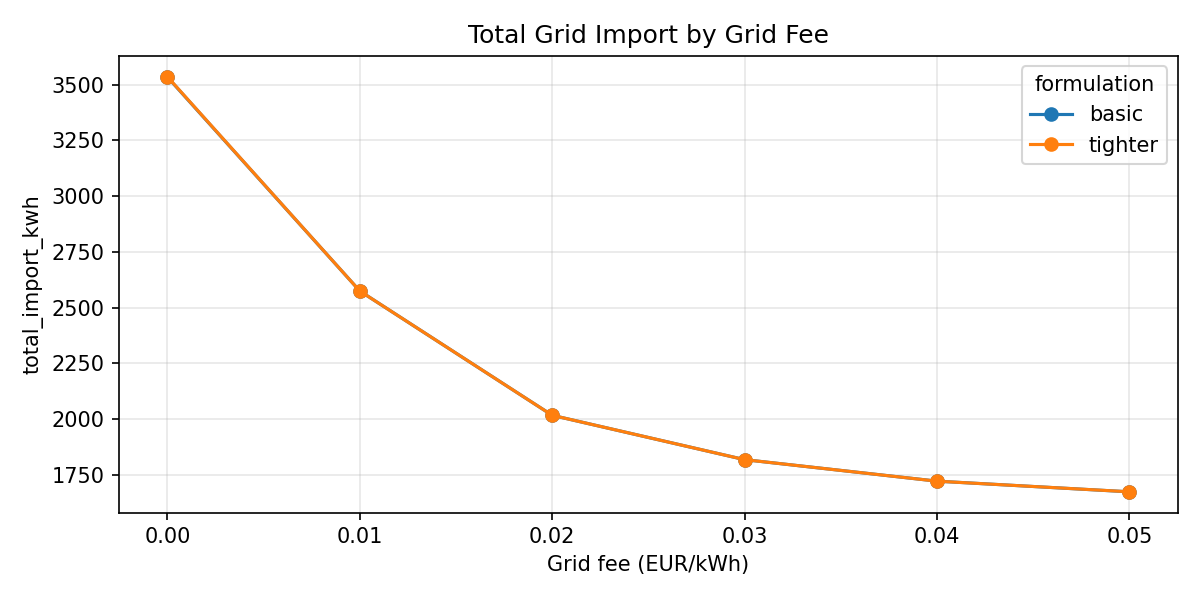
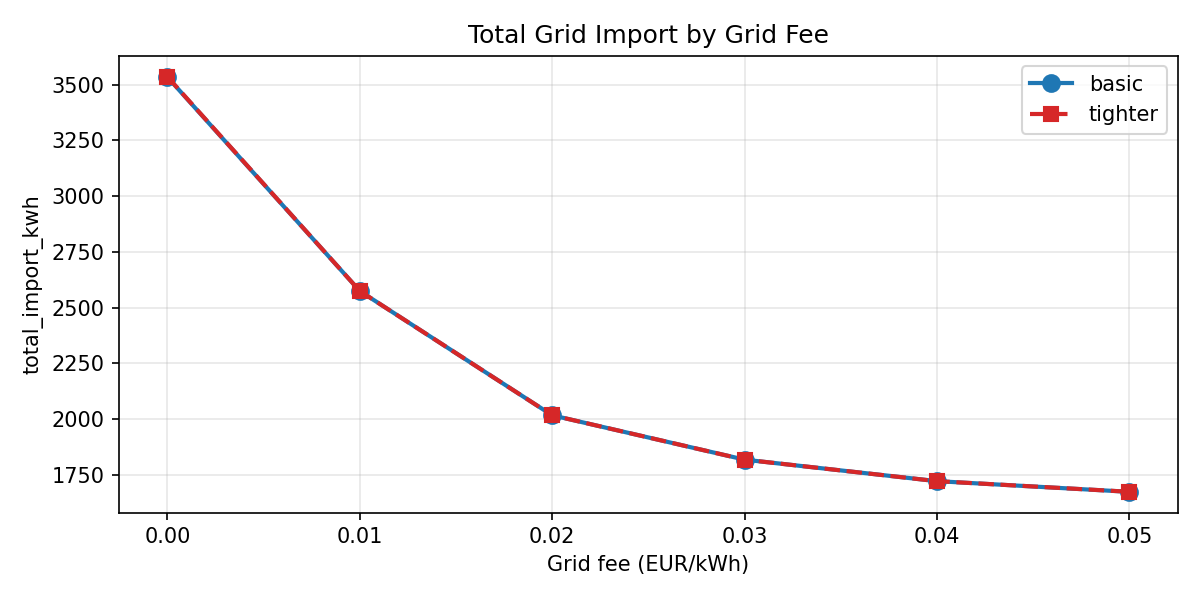
Assignment 5 new metric added

diff --git a/code/battery_opt/analysis/assignment5.py b/code/battery_opt/analysis/assignment5.py
@@ -3,10 +3,24 @@ from __future__ import annotations
 from pathlib import Path
 
 import matplotlib.pyplot as plt
+import numpy as np
 import pandas as pd
 
 from ..config import Assignment5Config, CaseConfig, ScenarioOverrideConfig
 from .common import apply_scenario_overrides, load_analysis_data, safe_solve
+
+
+def _compute_no_battery_objective(data: pd.DataFrame, grid_fee: float) -> dict:
+    d = data["net_demand_kwh"].values
+    lam = data["price_eur_per_kwh"].values
+    passive_import = np.clip(d, 0, None)
+    passive_export = np.clip(-d, 0, None)
+    no_bat_obj = (-(lam + grid_fee) * passive_import + (lam - grid_fee) * passive_export).sum()
+    return {
+        "no_battery_objective_eur": no_bat_obj,
+        "passive_import_kwh": float(passive_import.sum()),
+        "passive_export_kwh": float(passive_export.sum()),
+    }
 
 
 def run_assignment5_grid_fee_sweep(case_config: CaseConfig, assignment5_config: Assignment5Config) -> pd.DataFrame:
@@ -22,6 +36,9 @@ def run_assignment5_grid_fee_sweep(case_config: CaseConfig, assignment5_config: 
 
             scenario = ScenarioOverrideConfig(grid_fee_eur_per_kwh=grid_fee)
             scenario_case, scenario_data = apply_scenario_overrides(case_config, base_data, scenario)
+
+            no_bat = _compute_no_battery_objective(scenario_data, grid_fee)
+
             result, error = safe_solve(scenario_case, formulation, prepared_data=scenario_data)
             if error is not None:
                 records.append(
@@ -32,9 +49,12 @@ def run_assignment5_grid_fee_sweep(case_config: CaseConfig, assignment5_config: 
                         "periods": len(scenario_data),
                         "hours_below_fee": hours_below_fee,
                         "hours_below_fee_pct": hours_below_fee_pct,
+                        **no_bat,
                     }
                 )
                 continue
+
+            battery_value_eur = result.objective_value_eur - no_bat["no_battery_objective_eur"]
 
             records.append(
                 {
@@ -43,6 +63,8 @@ def run_assignment5_grid_fee_sweep(case_config: CaseConfig, assignment5_config: 
                     "status": result.status_name,
                     "periods": len(scenario_data),
                     "objective_eur": result.objective_value_eur,
+                    **no_bat,
+                    "battery_value_eur": battery_value_eur,
                     "runtime_seconds": result.runtime_seconds,
                     "total_grid_fee_paid_eur": grid_fee * result.summary["total_grid_exchange_kwh"],
                     "total_grid_exchange_kwh": result.summary["total_grid_exchange_kwh"],
@@ -133,6 +155,18 @@ def run_assignment5_suite(
     )
     _plot_assignment5_metric(
         results,
+        "no_battery_objective_eur",
+        "No-Battery Objective by Grid Fee",
+        output_path / "assignment5_no_battery_objective_by_fee.png",
+    )
+    _plot_assignment5_metric(
+        results,
+        "battery_value_eur",
+        "Battery Value (Incremental Profit) by Grid Fee",
+        output_path / "assignment5_battery_value_by_fee.png",
+    )
+    _plot_assignment5_metric(
+        results,
         "equivalent_cycles",
         "Equivalent Full Cycles by Grid Fee",
         output_path / "assignment5_equivalent_cycles_by_fee.png",
@@ -163,16 +197,26 @@ def run_assignment5_suite(
     }
 
 
+_FORMULATION_STYLES: dict[str, dict] = {
+    "basic": {"marker": "o", "linestyle": "-", "linewidth": 2.0, "markersize": 8, "color": "#1f77b4"},
+    "tighter": {"marker": "s", "linestyle": "--", "linewidth": 2.0, "markersize": 7, "color": "#d62728"},
+}
+
+
 def _plot_assignment5_metric(results: pd.DataFrame, metric: str, title: str, output_path: Path) -> None:
     valid = results[(results["status"] == "OPTIMAL") & results[metric].notna()].copy()
     if valid.empty:
         return
     pivot = valid.pivot(index="grid_fee_eur_per_kwh", columns="formulation", values=metric)
-    ax = pivot.plot(marker="o", figsize=(8, 4))
+    fig, ax = plt.subplots(figsize=(8, 4))
+    for col in pivot.columns:
+        style = _FORMULATION_STYLES.get(col, {"marker": "^", "linestyle": "-.", "linewidth": 2.0, "markersize": 7})
+        ax.plot(pivot.index, pivot[col], label=col, **style)
     ax.set_title(title)
     ax.set_xlabel("Grid fee (EUR/kWh)")
     ax.set_ylabel(metric)
+    ax.legend()
     ax.grid(True, alpha=0.3)
-    ax.figure.tight_layout()
-    ax.figure.savefig(output_path, dpi=150)
-    plt.close(ax.figure)
+    fig.tight_layout()
+    fig.savefig(output_path, dpi=150)
+    plt.close(fig)
